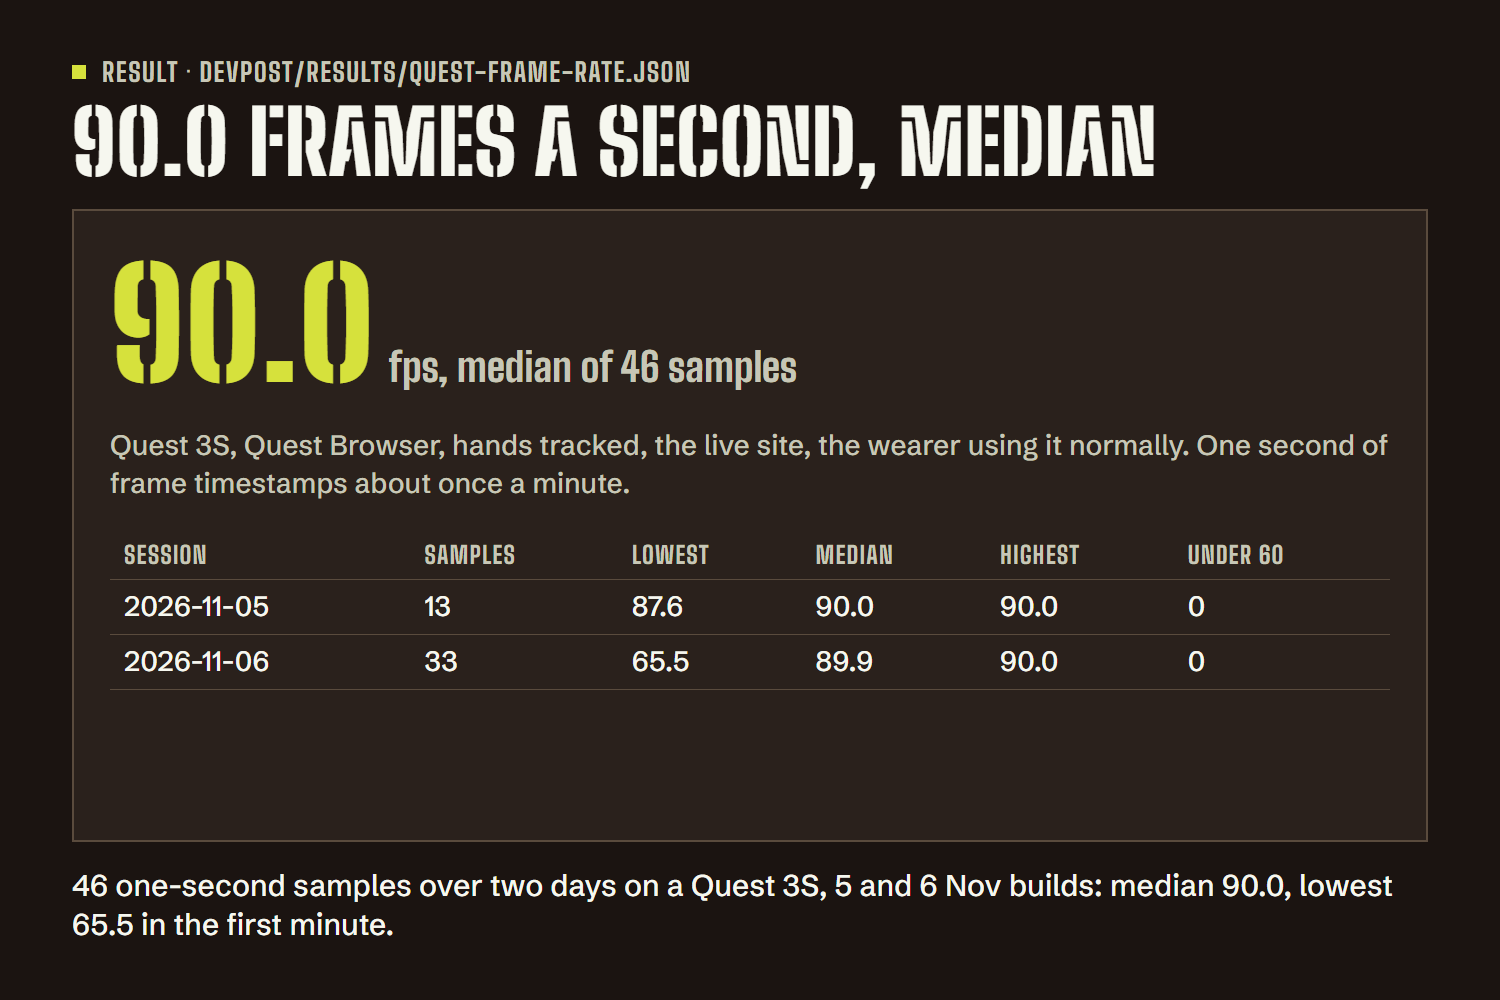
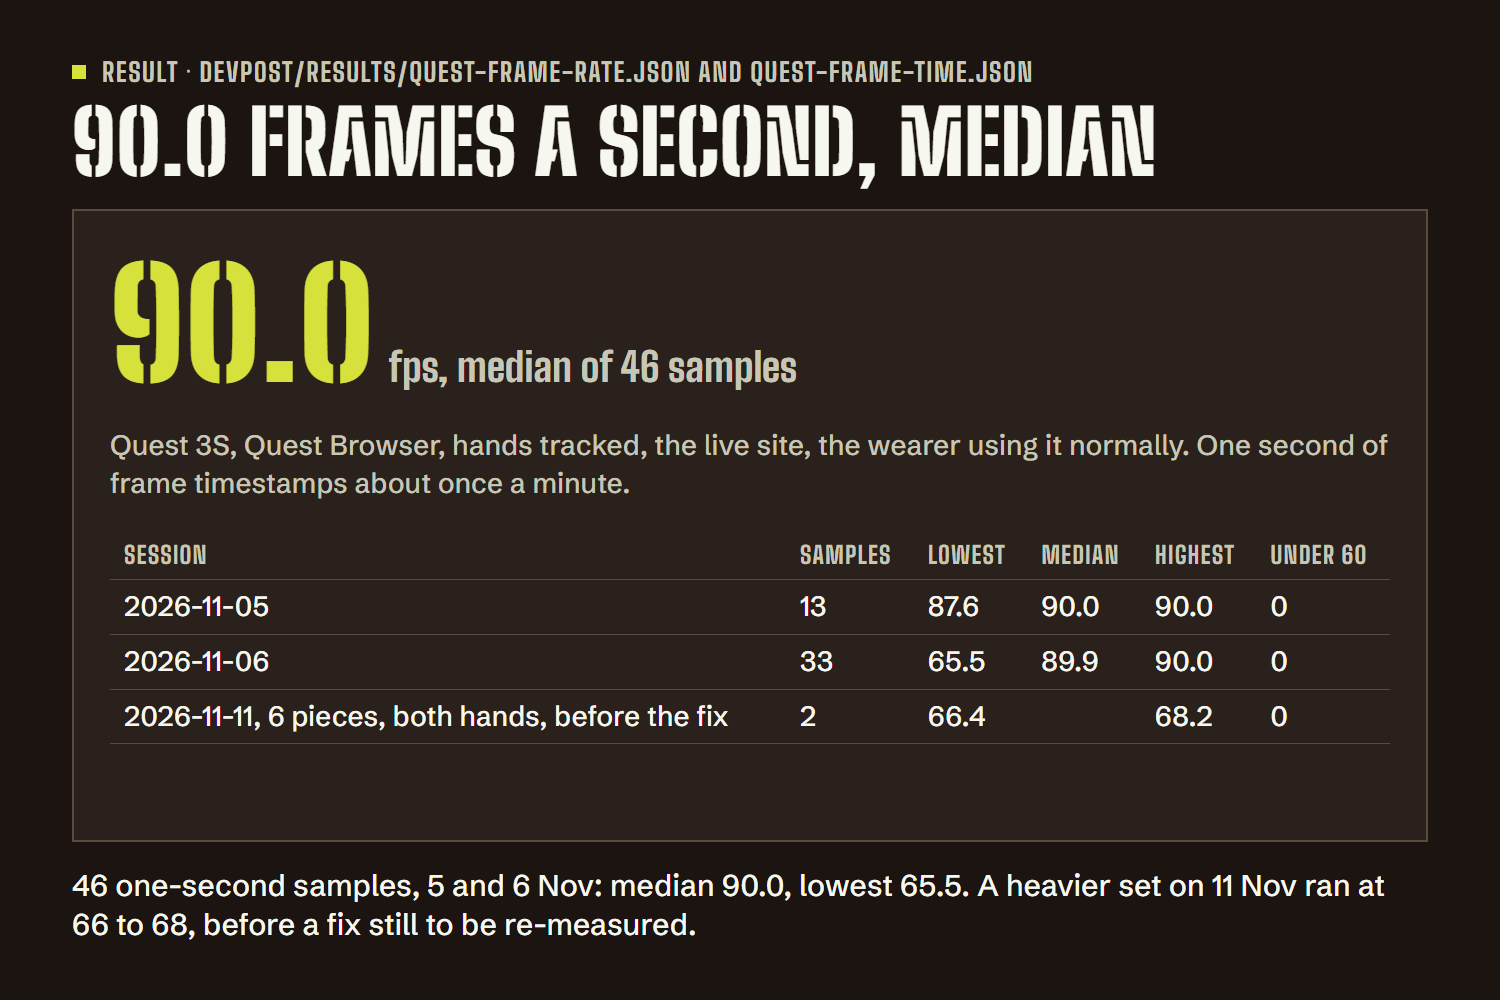
The frame-rate slide shows the heavier set of Nov 11 beside the light sessions, and says its fix is still to be re-measured

diff --git a/tools/gallery.py b/tools/gallery.py
@@ -29,6 +29,9 @@ W, H = 1500, 1000
 fps = json.loads((ROOT / 'devpost/results/quest-frame-rate.json').read_text(encoding='utf-8'))
 voice = json.loads((ROOT / 'devpost/results/voice-recognition.json').read_text(encoding='utf-8'))
 quest_voice = json.loads((ROOT / 'devpost/results/quest-voice.json').read_text(encoding='utf-8'))
+frame_time = json.loads((ROOT / 'devpost/results/quest-frame-time.json').read_text(encoding='utf-8'))
+heavy = frame_time['before']
+heavy_after = frame_time.get('after')
 quest_controls = quest_voice['control_sentences_fed_to_the_recogniser_on_the_headset']
 load = json.loads((ROOT / 'devpost/results/load-and-size.json').read_text(encoding='utf-8'))
 checks = (ROOT / 'devpost/checks/last-run.md').read_text(encoding='utf-8')
@@ -40,6 +43,10 @@ N = {
     'fps_min': min(all_fps),
     'fps_samples': len(all_fps),
     'fps_under60': sum(1 for v in all_fps if v < 60),
+    # The heavier set of 11 Nov, both hands tracked: before the fix, and after it once that is measured.
+    'heavy_fps': f"{round(min(heavy['frames_per_second']))} to {round(max(heavy['frames_per_second']))}",
+    'heavy_then': ('before a fix still to be re-measured' if heavy_after is None
+                   else f"{round(min(heavy_after['frames_per_second']))} to {round(max(heavy_after['frames_per_second']))} after the fix"),
     'voice_heard': voice['heard_the_beat'],
     'voice_runs': voice['standoff_runs'],
     # Recorded sentences fed to the recogniser inside the headset's browser: how many, and how many were read as what was said.
@@ -82,8 +89,8 @@ SLIDES = [
          caption='Dragon attack: a dragon, a house on fire and two actors, placed as a blocking. Start here, then move anything.'),
     dict(slug='back', badge=QUEST, headline='It keeps your set and your board', picture='captures/quest-car-bicycle.jpg',
          caption='After a reload in the headset the panel lists what came back: the set, the pieces and the board. Same spot after a relaunch: next to prove.'),
-    dict(slug='fps', badge='Result · devpost/results/quest-frame-rate.json', headline='{fps_median} frames a second, median', picture=('result', 'fps'),
-         caption='{fps_samples} one-second samples over two days on a Quest 3S, 5 and 6 Nov builds: median {fps_median}, lowest {fps_min} in the first minute.'),
+    dict(slug='fps', badge='Result · devpost/results/quest-frame-rate.json and quest-frame-time.json', headline='{fps_median} frames a second, median', picture=('result', 'fps'),
+         caption='{fps_samples} one-second samples, 5 and 6 Nov: median {fps_median}, lowest {fps_min}. A heavier set on 11 Nov ran at {heavy_fps}, {heavy_then}.'),
     dict(slug='load', badge=LIVE_BADGE, headline='The wait is a call sheet', picture=('live', 'loading'),
          caption='Main script {bundle_mb} MB, down from {bundle_before_mb}. On the Quest: a set in {quest_first_s} s on a first visit, {quest_reload_s} s on a reload.'),
     dict(slug='leave', badge=LIVE_BADGE, headline='You leave holding something', picture=('live', 'exports'),
@@ -122,6 +129,13 @@ def data_uri(path: Path) -> str:
 def result_body(kind: str) -> str:
     if kind == 'fps':
         rows = ''.join(f"<tr><td>{s['date']}</td><td>{s['samples']}</td><td>{s['min']}</td><td>{s['median']}</td><td>{s['max']}</td><td>{s['under60']}</td></tr>" for s in fps['summary'])
+        # The heavier set, from the frame-time probe: two three-second readings, so lowest and highest only.
+        for label, run in (('before the fix', heavy), ('after the fix', heavy_after)):
+            if run is None:
+                continue
+            both = run['frames_per_second']
+            rows += (f"<tr><td>{run['date']}, {len(run['on_the_set'])} pieces, both hands, {label}</td><td>{len(both)}</td>"
+                     f"<td>{min(both)}</td><td></td><td>{max(both)}</td><td>{sum(1 for v in both if v < 60)}</td></tr>")
         return (f'<div class="result"><div class="big">{N["fps_median"]}<span class="unit">fps, median of {N["fps_samples"]} samples</span></div>'
                 f'<p class="muted">Quest 3S, Quest Browser, hands tracked, the live site, the wearer using it normally. One second of frame timestamps about once a minute.</p>'
                 f'<table><tr><th>Session</th><th>Samples</th><th>Lowest</th><th>Median</th><th>Highest</th><th>Under 60</th></tr>{rows}</table></div>')

diff --git a/devpost/gallery/captions.md b/devpost/gallery/captions.md
@@ -71,7 +71,7 @@ After a reload in the headset the panel lists what came back: the set, the piece
 ## 12 fps
 
 ```
-46 one-second samples over two days on a Quest 3S, 5 and 6 Nov builds: median 90.0, lowest 65.5 in the first minute.
+46 one-second samples, 5 and 6 Nov: median 90.0, lowest 65.5. A heavier set on 11 Nov ran at 66 to 68, before a fix still to be re-measured.
 ```
 
 ## 13 load
